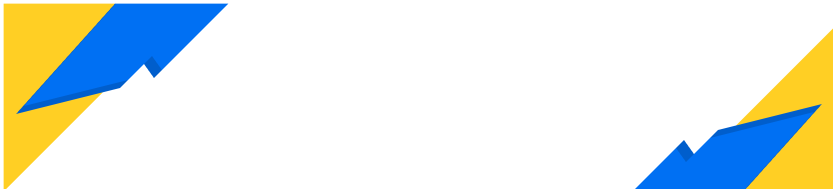
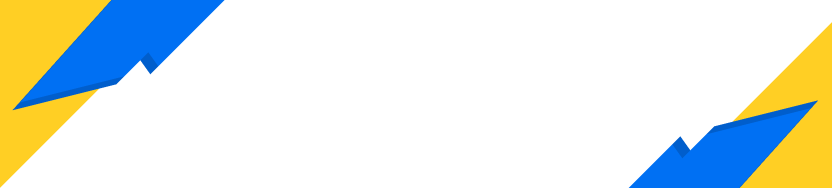
add alt colour themes change background-color to background

diff --git a/styles/Events.module.scss b/styles/Events.module.scss
@@ -28,13 +28,19 @@
 
     .content {
         color: var(--color);
-        
-        width: 80%;
         margin: auto;
-        padding: 2rem;
+        padding: clamp(1em, 20vw, 8rem);
         
         p {
             font-size: clamp(14px, 2vw, 18px);
+        }
+
+        .h2_p, h3 {
+            margin-left: 1em;
+        }
+
+        .h3_p {
+            margin-left: 2em;
         }
 
         .register_link_align {
@@ -107,7 +113,9 @@
 
 .main_td {
     .banner {
-        background: hsl(0, 0%, 16%);
+        $bg:  hsl(0, 0%, 10%);
+        $bgi:  hsl(0, 0%, 20%);
+        background: hsl(0, 0%, 14%);
         .banner_text {
             font-family: 'Inconsolata', monospace;
             font-weight: 800;
@@ -116,7 +124,7 @@
                 color: white;
                 position: relative;
                 padding-left: 30%;
-                background-color: hsl(0, 0%, 20%);
+                background: hsl(0, 0%, 20%);
                 font-size: clamp(1rem, 3vw, 2rem);
                 .yellow {
                     color: hsl(60, 100%, 50%);
@@ -133,7 +141,7 @@
                     bottom: calc(0.375em/2);
                     width: 1ch;
                     height: calc(0.375em/4);
-                    background-color: white;
+                    background: white;
                     // border: calc(0.375em/4) white solid;
                     animation: blink 1s steps(1) infinite;
                 }
@@ -153,10 +161,8 @@
             h1 {
                 text-align: center;
                 font-size: clamp(1.5rem, 4vw, 4rem);
-                color: hsl(360, 80%, 60%);
-                span {
-                    color: hsl(280, 100%, 40%);
-                }
+                // color: rgb(255, 60, 60);
+                color: #00FF00;
             }
         }
     }

diff --git a/styles/Navbar.module.scss b/styles/Navbar.module.scss
@@ -1,9 +1,10 @@
 .spacer {
   color: var(--text-1);
-  font-size: larger;
+  font-family: 'Coda Caption', Impact, Haettenschweiler, 'Arial Narrow Bold', sans-serif;
+  font-size: 1.5rem;
   font-weight: 500;
   text-transform: uppercase;
-  background: url('/images/SeasonBG.png');
+  background: var(--spacer);
   background-size: cover;
   background-position: 50% 50%;
   background-repeat: no-repeat;
@@ -47,6 +48,7 @@
   place-items: center;
   height: fit-content;
   background: var(--inactive);
+  box-shadow: 0 4px 8px hsl(0, 0%, 0%, 30%);
 
   .nav_button {
 
@@ -59,7 +61,7 @@
         transform: scale(1);
 
         .logo_v>path {
-          fill: hsl(47, 100%, 57%);
+          fill: var(--secondary);
         }
 
         .logo_n,
@@ -73,6 +75,7 @@
         width: 3.5rem;
         opacity: 1;
         left: 0;
+        color: var(--text-1);
       }
     }
 
@@ -201,14 +204,14 @@
       
       .home_button {
         .logo_v > path {
-          fill: hsl(47, 100%, 57%);
+          fill: var(--secondary);
         }
       }
     }
   }
 }
 
-@media screen and (max-width: 300px) {
+@media screen and (max-width: 400px) {
   .logo_text {
     display: none;
   }
@@ -230,7 +233,7 @@
   bottom: 0;
   top: 3rem;
   z-index: 2;
-  background-color: hsl(0, 0%, 0%, 30%);
+  background: hsl(0, 0%, 0%, 30%);
   transition: opacity 250ms;
 
   &.nav_menu_active {
@@ -242,7 +245,7 @@
   }
 
   .nav_menu_bg {
-    background-color: var(--inactive);
+    background: var(--inactive);
     position: absolute;
     width: clamp(50%, 20rem, 100%);
     top: 0;
@@ -292,7 +295,7 @@
   right: 0;
   z-index: 2;
   margin: 0.5em;
-  background-color: var(--primary);
+  background: var(--primary);
   color: white;
   padding: 1em;
   opacity: 0;

diff --git a/styles/globals.css b/styles/globals.css
@@ -1,6 +1,7 @@
 @import url('https://fonts.googleapis.com/css2?family=Cinzel+Decorative:wght@900&display=swap&text=Arena%20Of%20Valor%20Grab%20The%20Clutch%20And%20Feel%20The%20Power');
 @import url('https://fonts.googleapis.com/css2?family=Inconsolata:wght@800&display=swap&text=Truth%20or%20Debug%20print(%22I%20have%20not%20failed%2C%20I%20have%20found%2010%2C000%20ways%20how%20not%20to%20solve%20a%20problem%22)%3B');
 @import url('https://fonts.googleapis.com/css2?family=Rock+Salt&display=swap&text=Otakuiz%20Prepare%20for%20trouble%2C%20Make%20it%20double!');
+@import url('https://fonts.googleapis.com/css2?family=Coda+Caption:wght@800&display=swap&text=2020%20SEASON%201');
 
 :root {
   --primary: hsl(212, 100%, 48%);
@@ -9,7 +10,41 @@
   --background: white;
   --text-1: white;
   --text-2: black;
+  --spacer: url('/images/SeasonBG.png');
 }
+
+/* Purple and Orange */
+/* :root {
+  --primary: #F57600;
+  --secondary: #6F238B;
+  --inactive: #3A2442;
+  --background: white;
+  --text-1: white;
+  --text-2: black;
+  --spacer: url('/images/SeasonBG_purp.png');
+} */
+
+/* Green and Aqua */
+/* :root {
+  --primary: #00CC21;
+  --secondary: #FFCF24;
+  --inactive: #245F6B;
+  --background: white;
+  --text-1: white;
+  --text-2: black;
+  --spacer: url('/images/SeasonBG_green.png');
+} */
+
+/* Grey and Gold */
+/* :root {
+  --primary: #F5B000;
+  --secondary: #0072F5;
+  --inactive: #2C2C2C;
+  --background: white;
+  --text-1: white;
+  --text-2: black;
+  --spacer: url('/images/SeasonBG_gold.png');
+} */
 
 @media (prefers-color-scheme: dark) {
   :root {
@@ -19,6 +54,7 @@
     --background: hsl(0, 0%, 10%);
     --text-1: white;
     --text-2: white;
+    --spacer: url('/images/SeasonBG.png');
   }
 }
 

diff --git a/styles/Home.module.scss b/styles/Home.module.scss
@@ -2,12 +2,18 @@
   min-height: 100vh;
   width: 100%;
 
-  background-color: var(--background);
+  padding: 1rem;
+  background: var(--background);
+}
 
-  .mini_gallery {
-    display: grid;
-    place-items: center;
-    width: 100%;
-
+.banner {
+  display: grid;
+  grid-auto-flow: column;
+  grid-template-columns: repeat(3, 100%);
+  place-items: center;
+  height: 20rem;
+  overflow-x: hidden;
+  .image {
+    width: 75%;
   }
 }

diff --git a/styles/Event.module.scss b/styles/Event.module.scss
@@ -2,5 +2,5 @@
     min-height: 100vh;
     width: 100%;
   
-    background-color: var(--background);
+    background: var(--background);
 }
